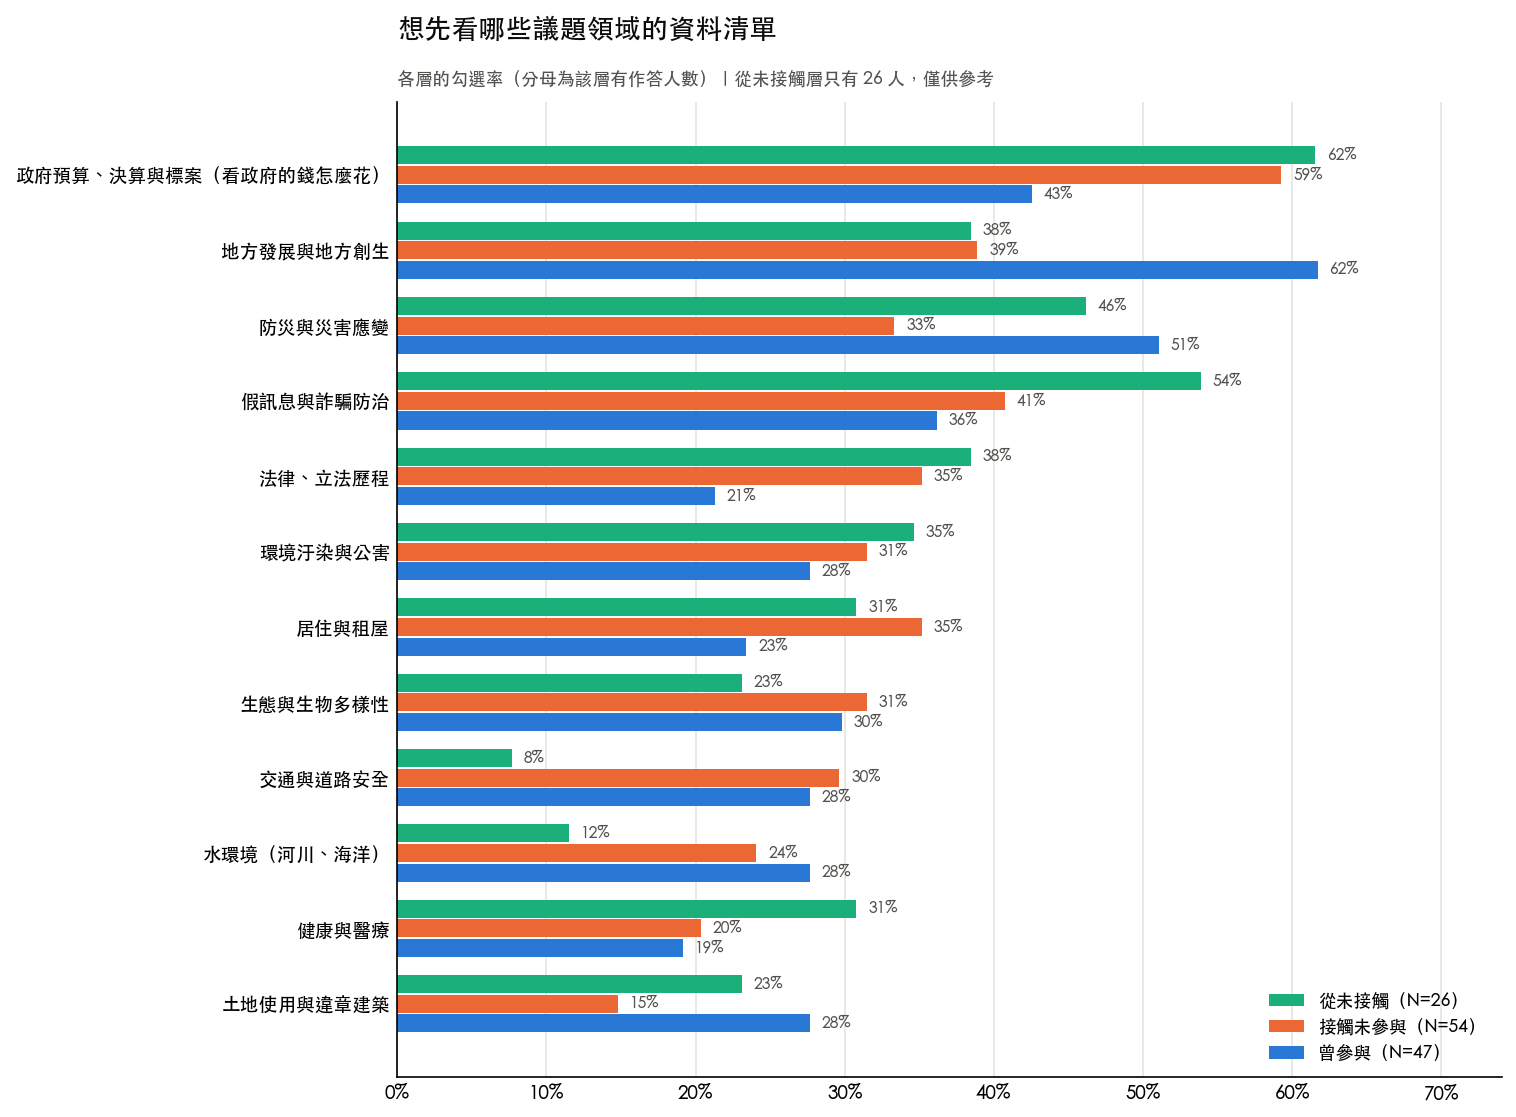
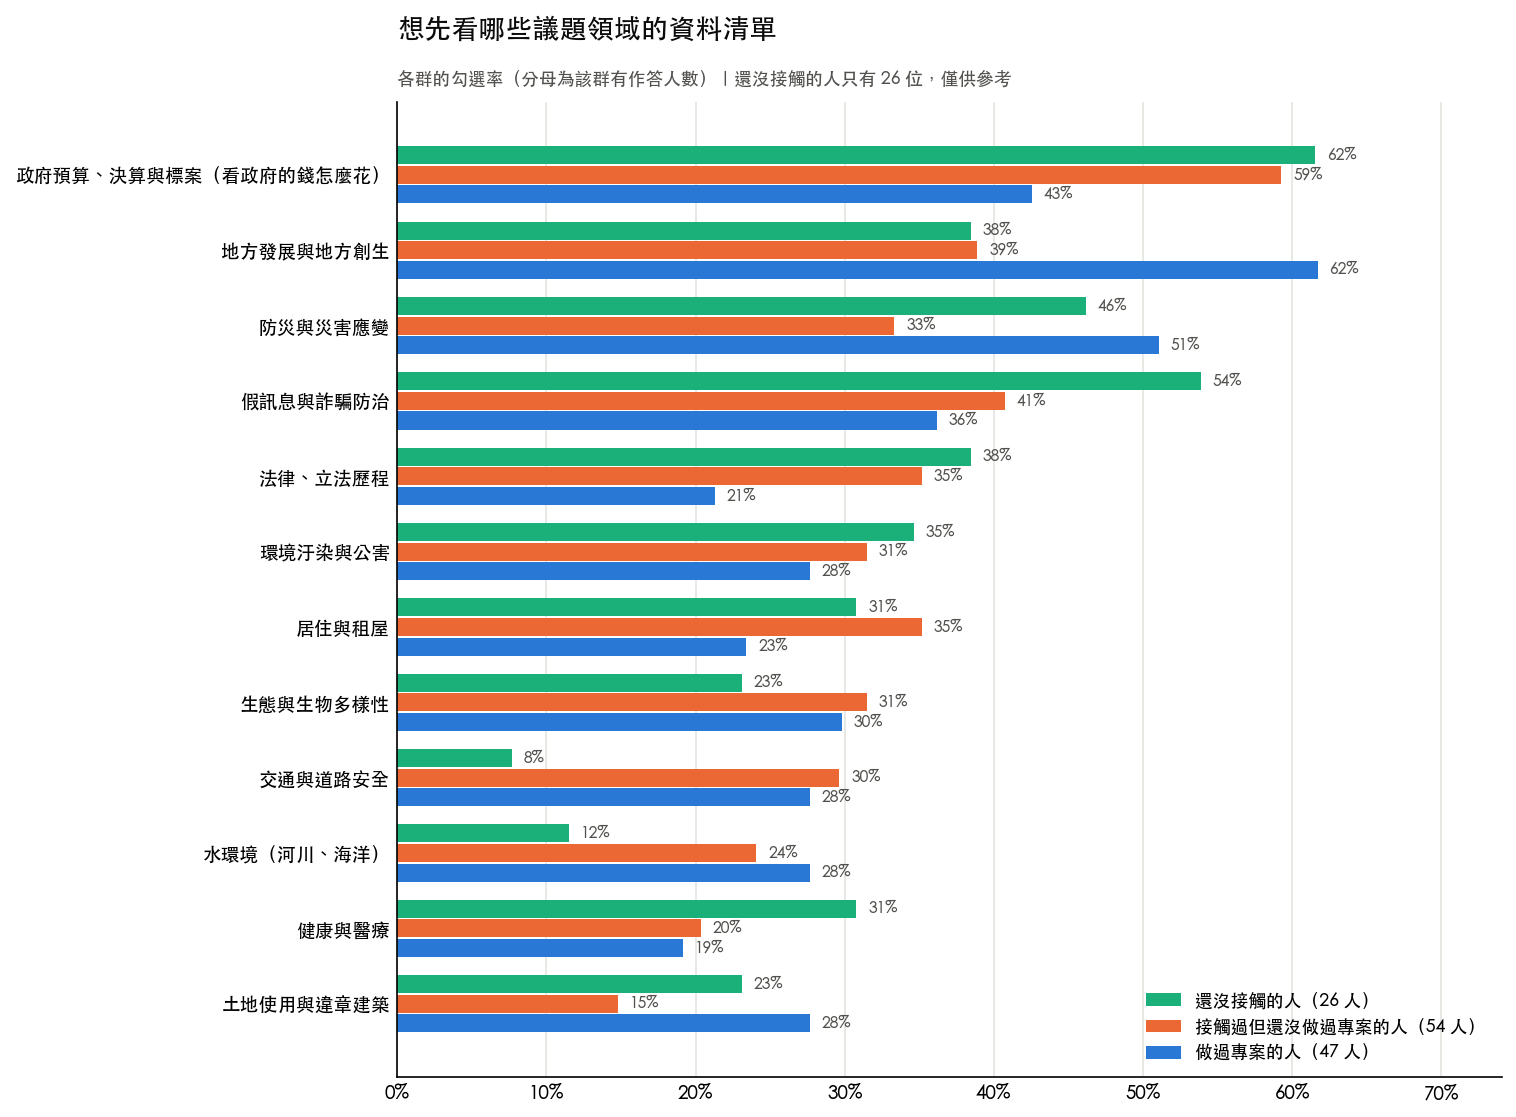
新增出資端與提案端的資源落差圖，圖表標籤改用白話
新增 17_出資端與提案端的資源落差.png：
左panel 是出資者認為最難找資源的階段（27 人），右panel 是提案端
「主要靠我自己想辦法」依專案階段的比例。兩邊用同一個 y 軸順序、
把「落地」標成強調色，讓 11% 對 35% 的反轉看得出來。
底下註明兩題問法不同、不可直接等同。

查證：問卷設計稿把出資者那題標為複選，但實際作答沒有任何人複選
（14+10+3 剛好等於作答人數 27），故圖上照實描述作答狀況，
不宣稱表單的題型設定。

圖表標籤改白話（common.LAYER_PLAIN）：
「從未接觸／接觸未參與／曾參與」在圖上改成
「還沒接觸的人／接觸過但還沒做過專案的人／做過專案的人」，
影響 04、09、10 三張圖。只改圖表標籤，不動 CSV 的分群欄位值,
那些值是各腳本互相比對的鍵。

驗證：05 全部 17 張圖重跑；01、06 通過；稽核 v1 的 126 處與
整合版的 19 處全數相符。

diff --git a/04_需求分析與選題報告/分析程式/05_figures.py b/04_需求分析與選題報告/分析程式/05_figures.py
@@ -285,7 +285,7 @@ def main():
                         textcoords="offset points", fontsize=10.5,
                         color=C.PALETTE["layers"][layer], ha="center", va="center", zorder=4)
         note = "，人數少僅供參考" if n < 30 else ""
-        ax.set_title(f"{layer}（{n} 人{note}）", fontsize=11, pad=8)
+        ax.set_title(f"{C.LAYER_PLAIN[layer]}（{n} 人{note}）", fontsize=11, pad=8)
         ax.grid(color=C.PALETTE["grid"], lw=0.8, zorder=0)
         ax.set_axisbelow(True)
         ax.tick_params(length=0, labelsize=8.5)
@@ -303,9 +303,9 @@ def main():
              "每個面板都是完整的狩野四象限（SI 0–1、DSI 0～−1，分界線在正中央）；"
              "同一個編號在三個面板中是同一個主題，可直接橫向比較落點位移。",
              ha="center", fontsize=8.5, color="#52514e")
-    fig.suptitle("狩野落點：入坑三層比較", fontsize=13, x=0.09, ha="left", y=1.04)
-    fig.text(0.09, 0.99, "「捲動更多人」③ 與「留住夥伴」④ 在「從未接觸」層落到無差別 I，"
-                         "在另外兩層都是魅力 A——沒進場的人感受不到團隊經營的痛",
+    fig.suptitle("三群人分別覺得哪些主題值得寫", fontsize=13, x=0.09, ha="left", y=1.04)
+    fig.text(0.09, 0.99, "「捲動更多人」③ 與「留住夥伴」④ 對還沒接觸的人落在「無差別」，"
+                         "對另外兩群都是「魅力」：沒進場的人感受不到團隊經營的痛",
              ha="left", fontsize=8.5, color="#52514e")
     C.save_fig(fig, "04_狩野落點_三層")
     plt.close(fig)
@@ -339,6 +339,59 @@ def main():
            "格內＝該階段中用過該資源的比例（人數/該階段人數）｜47 位曾參與者，各階段只有 6–17 人，僅供參考")
     fig.colorbar(im, ax=ax, shrink=0.6, label="群內比例")
     C.save_fig(fig, "05_資源×專案階段")
+    plt.close(fig)
+
+    # ---------------- 3b. 出資端與提案端的資源落差（兩個面板對照）----------------
+    # 兩邊問的不是同一題，也不是同一套選項，所以不畫成同一組長條：
+    #   左＝出資者答「最難找資源的是哪個階段」（27 人，只給早期／落地／維運三個選項）
+    #   右＝提案端答「這個專案用過哪些資源」中勾「主要靠我自己想辦法」的比例
+    #       （依填答者最近參與的專案所在階段分組，另有「停擺」一組，出資者那題沒有）
+    # 用同一個 y 軸順序（早期→落地→維運）並把「落地」標成強調色，讓落差看得出來。
+    FUND_TO_STAGE = {
+        "還在很早期、只有想法的": "早期（探索或開發中）",
+        "已經做出原型、要往落地走的": "落地",
+        "已經上線、要長期維運的": "維運",
+    }
+    fd = pd.read_csv(T / "03_出資者_資源沙漠階段.csv")
+    unknown = set(fd["選項"]) - set(FUND_TO_STAGE)
+    assert not unknown, f"出資者階段題出現未預期選項：{sorted(unknown)}"
+    fd["階段"] = fd["選項"].map(FUND_TO_STAGE)
+    fd_n = int(fd["分母"].iloc[0])
+
+    sf = rs[rs["選項"] == "主要靠我自己想辦法"].copy()
+
+    fig, axes = plt.subplots(1, 2, figsize=(12.6, 4.2))
+    panels = [
+        (axes[0], fd.set_index("階段"), "比例", "票數", fd_n,
+         # 問卷設計稿把這題標為複選，但實際作答裡沒有任何人複選（票數 14+10+3 剛好等於
+         # 作答人數 27），所以圖上照實描述作答狀況，不宣稱表單的題型設定。
+         f"出資者認為最難找資源的階段", f"曾出錢支持過專案的 {fd_n} 人，作答中每人都只選了一個"),
+        (axes[1], sf.set_index("分群"), "群內比例", "分子", None,
+         "提案端說「主要靠我自己想辦法」的比例",
+         "依每個人最近參與的專案所在階段分組"),
+    ]
+    for ax, d, vcol, ncol, fixed_den, title, sub in panels:
+        stages = [s for s in C.STAGE_COARSE_ORDER if s in d.index]
+        y = np.arange(len(stages))[::-1]
+        for yi, st in zip(y, stages):
+            v = float(d.loc[st, vcol])
+            n = int(d.loc[st, ncol])
+            den = fixed_den if fixed_den else int(d.loc[st, "分母"])
+            hot = st == "落地"
+            ax.barh(yi, v, height=0.6, zorder=2,
+                    color=C.PALETTE["accent"] if hot else C.PALETTE["neutral"])
+            ax.text(v + 0.015, yi, f"{v:.0%}  ({n}/{den})",
+                    va="center", fontsize=8.5, color="#52514e")
+        ax.set_yticks(y, [s.replace("（探索或開發中）", "") for s in stages], fontsize=9.5)
+        ax.set_xlim(0, 0.72)
+        ax.xaxis.set_major_formatter(lambda x, _: f"{x:.0%}")
+        style_axes(ax, title=title, subtitle=sub)
+
+    fig.text(0.5, -0.10,
+             "出資者覺得最不缺資源的「落地」（11%），正是提案端最常說只能靠自己的一段（35%）。"
+             "兩題問法不同：一邊問難易感受、一邊問實際用過哪些資源，用得少也可能只是還沒用到。",
+             ha="center", fontsize=8.5, color="#52514e")
+    C.save_fig(fig, "17_出資端與提案端的資源落差")
     plt.close(fig)
 
     # ---------------- 4. 年齡 × 持續動機 lift（分歧型）----------------
@@ -432,7 +485,7 @@ def main():
         for k, layer in enumerate(C.LAYER_ORDER):
             ax.barh(y + (1 - k) * 0.26, piv[layer], height=0.24,
                     color=C.PALETTE["layers"][layer],
-                    label=f"{layer}（N={dens[layer]}）", zorder=2)
+                    label=f"{C.LAYER_PLAIN[layer]}（{dens[layer]} 人）", zorder=2)
         for k, layer in enumerate(C.LAYER_ORDER):
             for yi, v in zip(y + (1 - k) * 0.26, piv[layer]):
                 ax.text(v + 0.008, yi, f"{v:.0%}", va="center", fontsize=7.5, color="#52514e")
@@ -441,7 +494,7 @@ def main():
         ax.xaxis.set_major_formatter(lambda x, _: f"{x:.0%}")
         ax.legend(frameon=False, fontsize=8.5, loc="lower right")
         style_axes(ax, title=title,
-                   subtitle="各層的勾選率（分母為該層有作答人數）｜從未接觸層只有 26 人，僅供參考")
+                   subtitle="各群的勾選率（分母為該群有作答人數）｜還沒接觸的人只有 26 位，僅供參考")
         C.save_fig(fig, fname)
         plt.close(fig)
 

diff --git a/04_需求分析與選題報告/分析程式/common.py b/04_需求分析與選題報告/分析程式/common.py
@@ -86,6 +86,16 @@ L_DONE = "曾參與"           # 預期 N=47，L2
 LAYER_ORDER = [L_NEVER, L_AWARE, L_DONE]
 LAYER_EXPECTED_N = {L_NEVER: 26, L_AWARE: 54, L_DONE: 47}
 
+# 圖表專用的白話標籤。對外報告不讓「三層」這個分析術語進正文，
+# 但圖上原本會直接印出 L_NEVER／L_AWARE／L_DONE，等於把術語帶回來。
+# ⚠ 只用於圖表標籤，**不可**拿去改 CSV 的分群欄——那些值是各腳本互相比對的鍵，
+#    改了會讓 06_number_index.py 與 10_role_crosstab.py 的守門檢查失效。
+LAYER_PLAIN = {
+    L_NEVER: "還沒接觸的人",
+    L_AWARE: "接觸過但還沒做過專案的人",
+    L_DONE: "做過專案的人",
+}
+
 NEVER_CONTACT_VALUE = "我從未接觸過公民科技，只有聽過或看過"
 
 # 最近一次接觸時間：活躍度序位（「從未接觸」不在此軸上，給 None）
